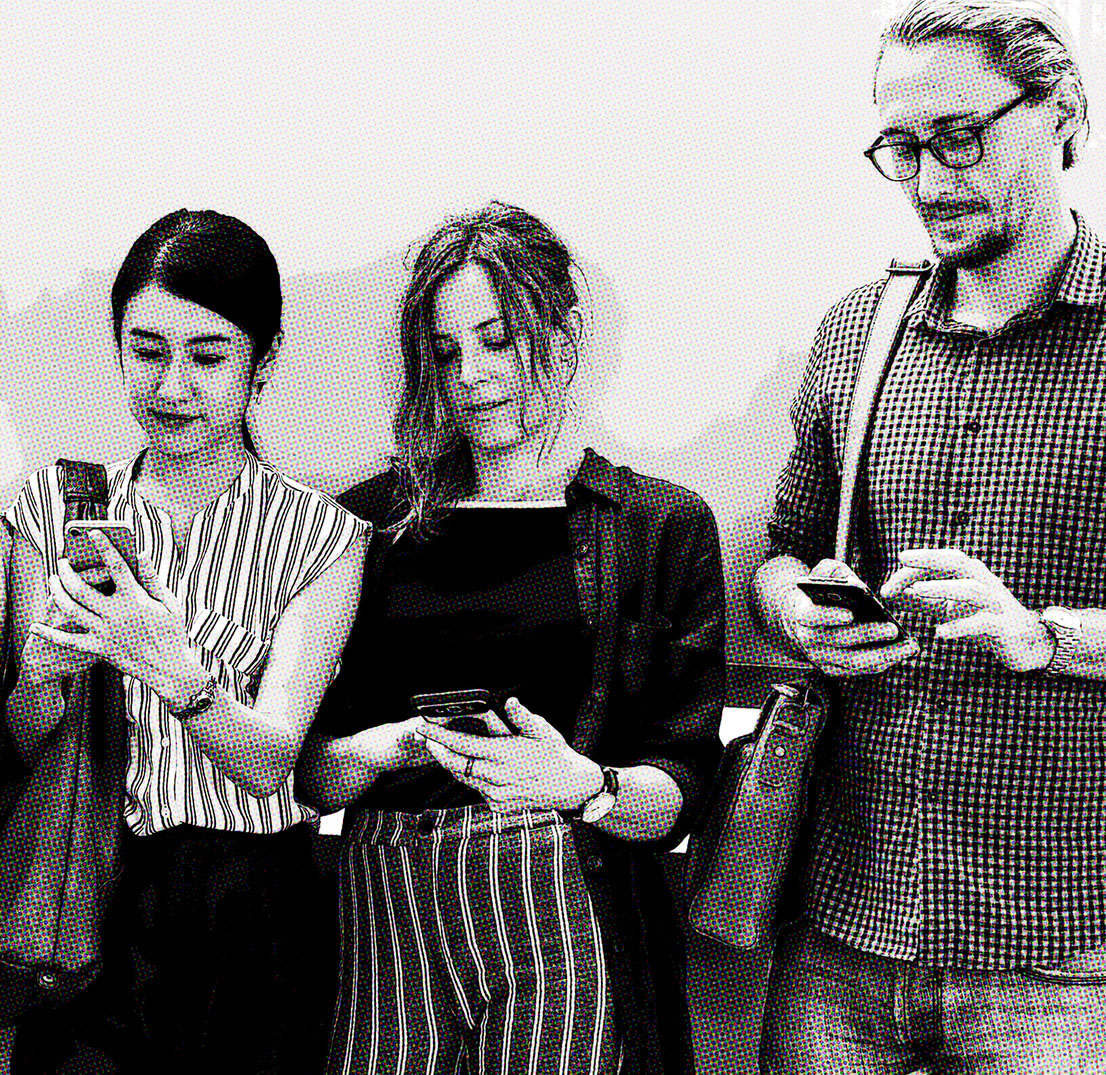
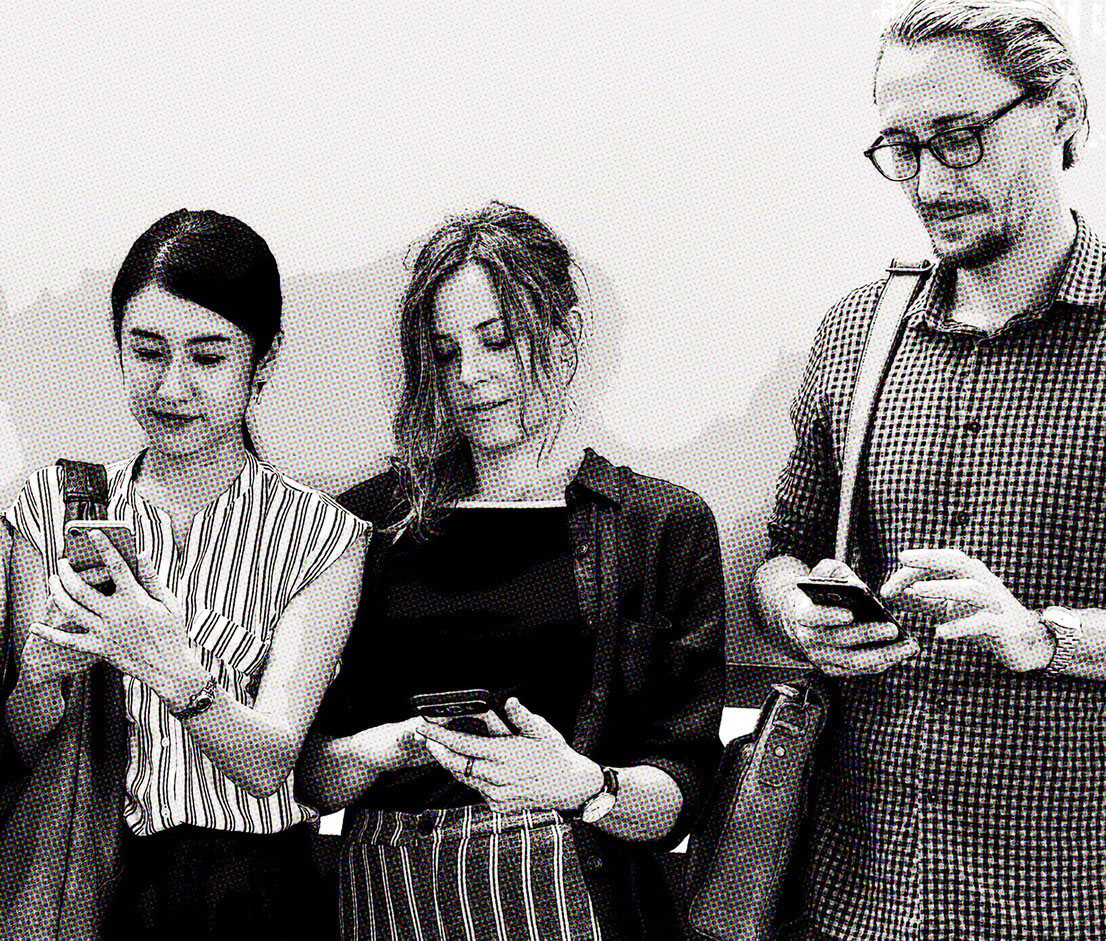
Html framework and css style for desktop complete

diff --git a/templates/index.html b/templates/index.html
@@ -44,13 +44,13 @@
       <div class="collapse navbar-collapse" id="navbarNav">
         <ul class="navbar-nav">
           <li class="nav-item active">
-            <a class="nav-link" href="#">Home <span class="sr-only">(current)</span></a>
+            <a class="nav-link" href="#home">Home <span class="sr-only">(current)</span></a>
           </li>
           <li class="nav-item">
-            <a class="nav-link" href="#">Data</a>
+            <a class="nav-link" href="#data">Data</a>
           </li>
           <li class="nav-item">
-            <a class="nav-link" href="#">Findings</a>
+            <a class="nav-link" href="#findings">Findings</a>
           </li>
         </ul>
       </div>
@@ -59,14 +59,15 @@
   <!-- end Navigation -->
 </header>
 
-<body>
+<body data-spy="scroll" data-target=".navbar" data-offset="50">
 
   <!-- .container -->
 
     <div class="container-fluid">
       <div class="row">
         <div class="col-12">
-            <img id="group" src="../static/img/comicGroupFlat.jpg" width="576" height="560" alt="Stock photo for design purposes.">
+        <div id="home">
+            <img id="group" src="../static/img/comicGroupFlatLowRes.jpg" width="576" height="560" alt="Stock photo for design purposes.">
             <div id="front-right">
                 <div class="title-borders"><h1 id="case-study">Case Study</h1></div>
                 <div id="p1">
@@ -81,14 +82,100 @@
             </div>
         </div>
       </div>
+    </div>
       <div class="row">
         <div class="col-12">
-            <div id="office-wrapper">
-                <img src="../static/img/stockOfficeFlat.jpg">
-            </div>
+        <div id="data">
+              <h2 id="data-heading"><span>Data Sources</span></h2>
+              <ul id="data-links">
+                <span>
+                <li class="data-item"><a href="#">Beard bushwick actually, authentic XOXO ennui ramps tattooed. Live-edge master cleanse cardigan, wayfarers bicycle rights selvage hot chicken literally</a></li>
+                <li class="data-item"><a href="#">Beard bushwick actually, authentic XOXO ennui ramps tattooed. Live-edge master cleanse cardigan, wayfarers bicycle rights selvage hot chicken literally</a></li>
+                <li class="data-item"><a href="#">Beard bushwick actually, authentic XOXO ennui ramps tattooed. Live-edge master cleanse cardigan, wayfarers bicycle rights selvage hot chicken literally</a></li>
+              </span>
+              </ul>
+              <img id="data-stock" src="../static/img/datasourcesstock.jpg">
         </div>
-      </div>
+        </div>
     </div>
+    
+    <div class="row">
+            <div class="col-12">
+            <div id="findings">
+            <div id="findings-left">
+              <div class="subheading-borders">
+                  <h2 id="findings-heading">Findings</h2>
+              </div>
+            </div>
+
+            <div id="select-col">
+                  <h4>Select a state from the map or choose from the menu here: </h4>
+                  <form>
+                    <div class="form-group">
+                      <select class="form-control" id="state-form">
+                        <option class="option-color">...</option>
+                      </select>
+                    </div>
+                  </form>
+            </div>
+          </div>
+          </div>
+      </div>
+        
+    <!-- Map Container
+      <div class="row">
+            <div class="col-12">
+              <div id="map">
+                  <div class="placeholders">
+                    <p class="placeholder-text">Map Placeholder?</p>
+                  </div>
+              </div>
+            </div>
+      </div>
+   
+    -->
+
+      <div class="row">
+            <div class="col-6">
+                <div class="holder">
+
+                  </div>
+            </div>
+
+            <div class="col-6">
+                <div class="holder">
+                    
+                  </div>
+            </div>
+
+      </div>
+
+      <div class="row">
+          <div class="col-12">
+            <div id="time-series">
+                <div class="placeholders">
+                  <p class="placeholder-text">Time-Series Placeholder</p>
+                </div>
+            </div>
+          </div>
+      </div>
+
+             
+                  
+              
+              
+                 
+                
+              
+                
+              
+            
+      
+    
+    
+  </div>
+
+  
 
   <!-- end .container -->
 

diff --git a/static/css/styles.css b/static/css/styles.css
@@ -87,7 +87,7 @@
         float: right;
         padding-left: 55px;
         padding-right: 55px;
-        padding-top: 230px;
+        padding-top: 200px;
 
     }
 
@@ -121,7 +121,7 @@
         margin-left: auto;
         margin-right: auto;
         margin-top: 40px;
-        margin-bottom: 20px;
+        margin-bottom: 30px;
         font-family: "Crimson Text", serif;
         font-size: 24px;
         text-align-last: center;
@@ -144,10 +144,11 @@
     }
 
     #explore-button {
-        width: 150px;
-        height: 55px;
-        margin-top: 20px;
-        margin: auto;
+        width: 160px;
+        height: 50px;
+        margin-left: auto;
+        margin-right: auto;
+        margin-top: 40px;
     }
 
     .btn.btn-primary {
@@ -155,17 +156,181 @@
         background: #e73712;
         font-family: 'Barlow Condensed', sans-serif;
         font-size: 32px;
+        font-weight: bold;
         color: white;
         border-color: #e73712;
-        width: 150px;
-        height: 55px;
+        width: 160px;
+        height: 50px;
+        padding: 0;
+        margin-left: 10px;
+        
 
     }
 
-    #office-wrapper {
-        opacity: 0.50;
+    #data {
+
+        width: 100%;
+        height: auto;
+    }
+
+    #data-heading {
+
+        position: absolute;
+        margin-top: 260px;
+        margin-left: 190px;
+        color: white;
+        font-family: "Arimo", sans-serif;
+        font-weight: bold;
+        font-size: 38px;
+    }
+
+    #data-stock {
+
+        margin-top: 170px;
+        height: 532px;
+        margin-left: -20px;
+
+    }
+    
+
+    #data-links span {
+
+        position: absolute;
+        width: 70%;
+        margin-top: 370px;
+        margin-left: 165px;
+        display: block;
+        list-style: none;
+
+    }
+
+    .data-item {
+
+        padding-bottom: 20px;
+    }
+
+    .data-item a {
+
+        font-family: "Crimson Text", sans-serif;
+        font-size: 20px;
+        color: white;
+
+    }
+
+    #findings {
+
+        width: 100%;
+        height: auto;
+        margin-left: -20px;
+
+    }
+
+    .subheading-borders {
+
+        border-style: solid;
+        border-color: #e73712;
+        border-width: 8px;
+        margin-left: 145px;
+        margin-bottom: 40px;
+        width: 200px;
         
     }
+
+    #findings-heading {
+
+        font-family: "Arimo", sans-serif;
+        font-weight: bold;
+        font-size: 36px;
+        text-align: center;
+        padding-top: 10px;
+
+    }
+
+    #findings-left {
+
+        position: relative;
+        float: left;
+        width: 50%;
+        margin-top: 170px;
+
+    }
+
+    #select-col {
+
+        position: relative;
+        float: right;
+        width: 50%;
+        margin-top: 170px;
+        margin-bottom: 30px;
+        padding-top: 30px;
+
+    }
+
+    h4 {
+
+        font-size: 18px;
+        font-family: "Arimo", sans-serif;
+        font-weight: bold;
+        text-align: center;
+        padding-bottom: 20px;
+
+    }
+
+    form {
+
+        margin-left: auto;
+        margin-right: auto;
+        width: 150px;
+        height: 45px;
+
+    }
+
+    #map {
+
+        width: auto;
+        height: auto;
+        margin-bottom: 100px;
+
+    }
+
+    #time-series {
+
+        margin-top: 20px;
+        margin-bottom: 100px;
+
+    }
+    
+    .holder {
+
+        margin-left: auto;
+        margin-right: auto;
+        width: 500px;
+        height: 500px;
+        background-color: rgb(0, 0, 0, 0.50);
+
+
+    }
+
+    .placeholders {
+
+        width: 80%;
+        margin-left: auto;
+        margin-right: auto;
+        height: 300px;
+        background-color: rgb(0, 0, 0, 0.50);
+
+
+    }
+
+    .placeholder-text {
+
+        color: black;
+        font-family: "Arimo", sans-serif;
+        font-size: 24px;
+        font-weight: bold;
+
+    }
+
 
  }
 
